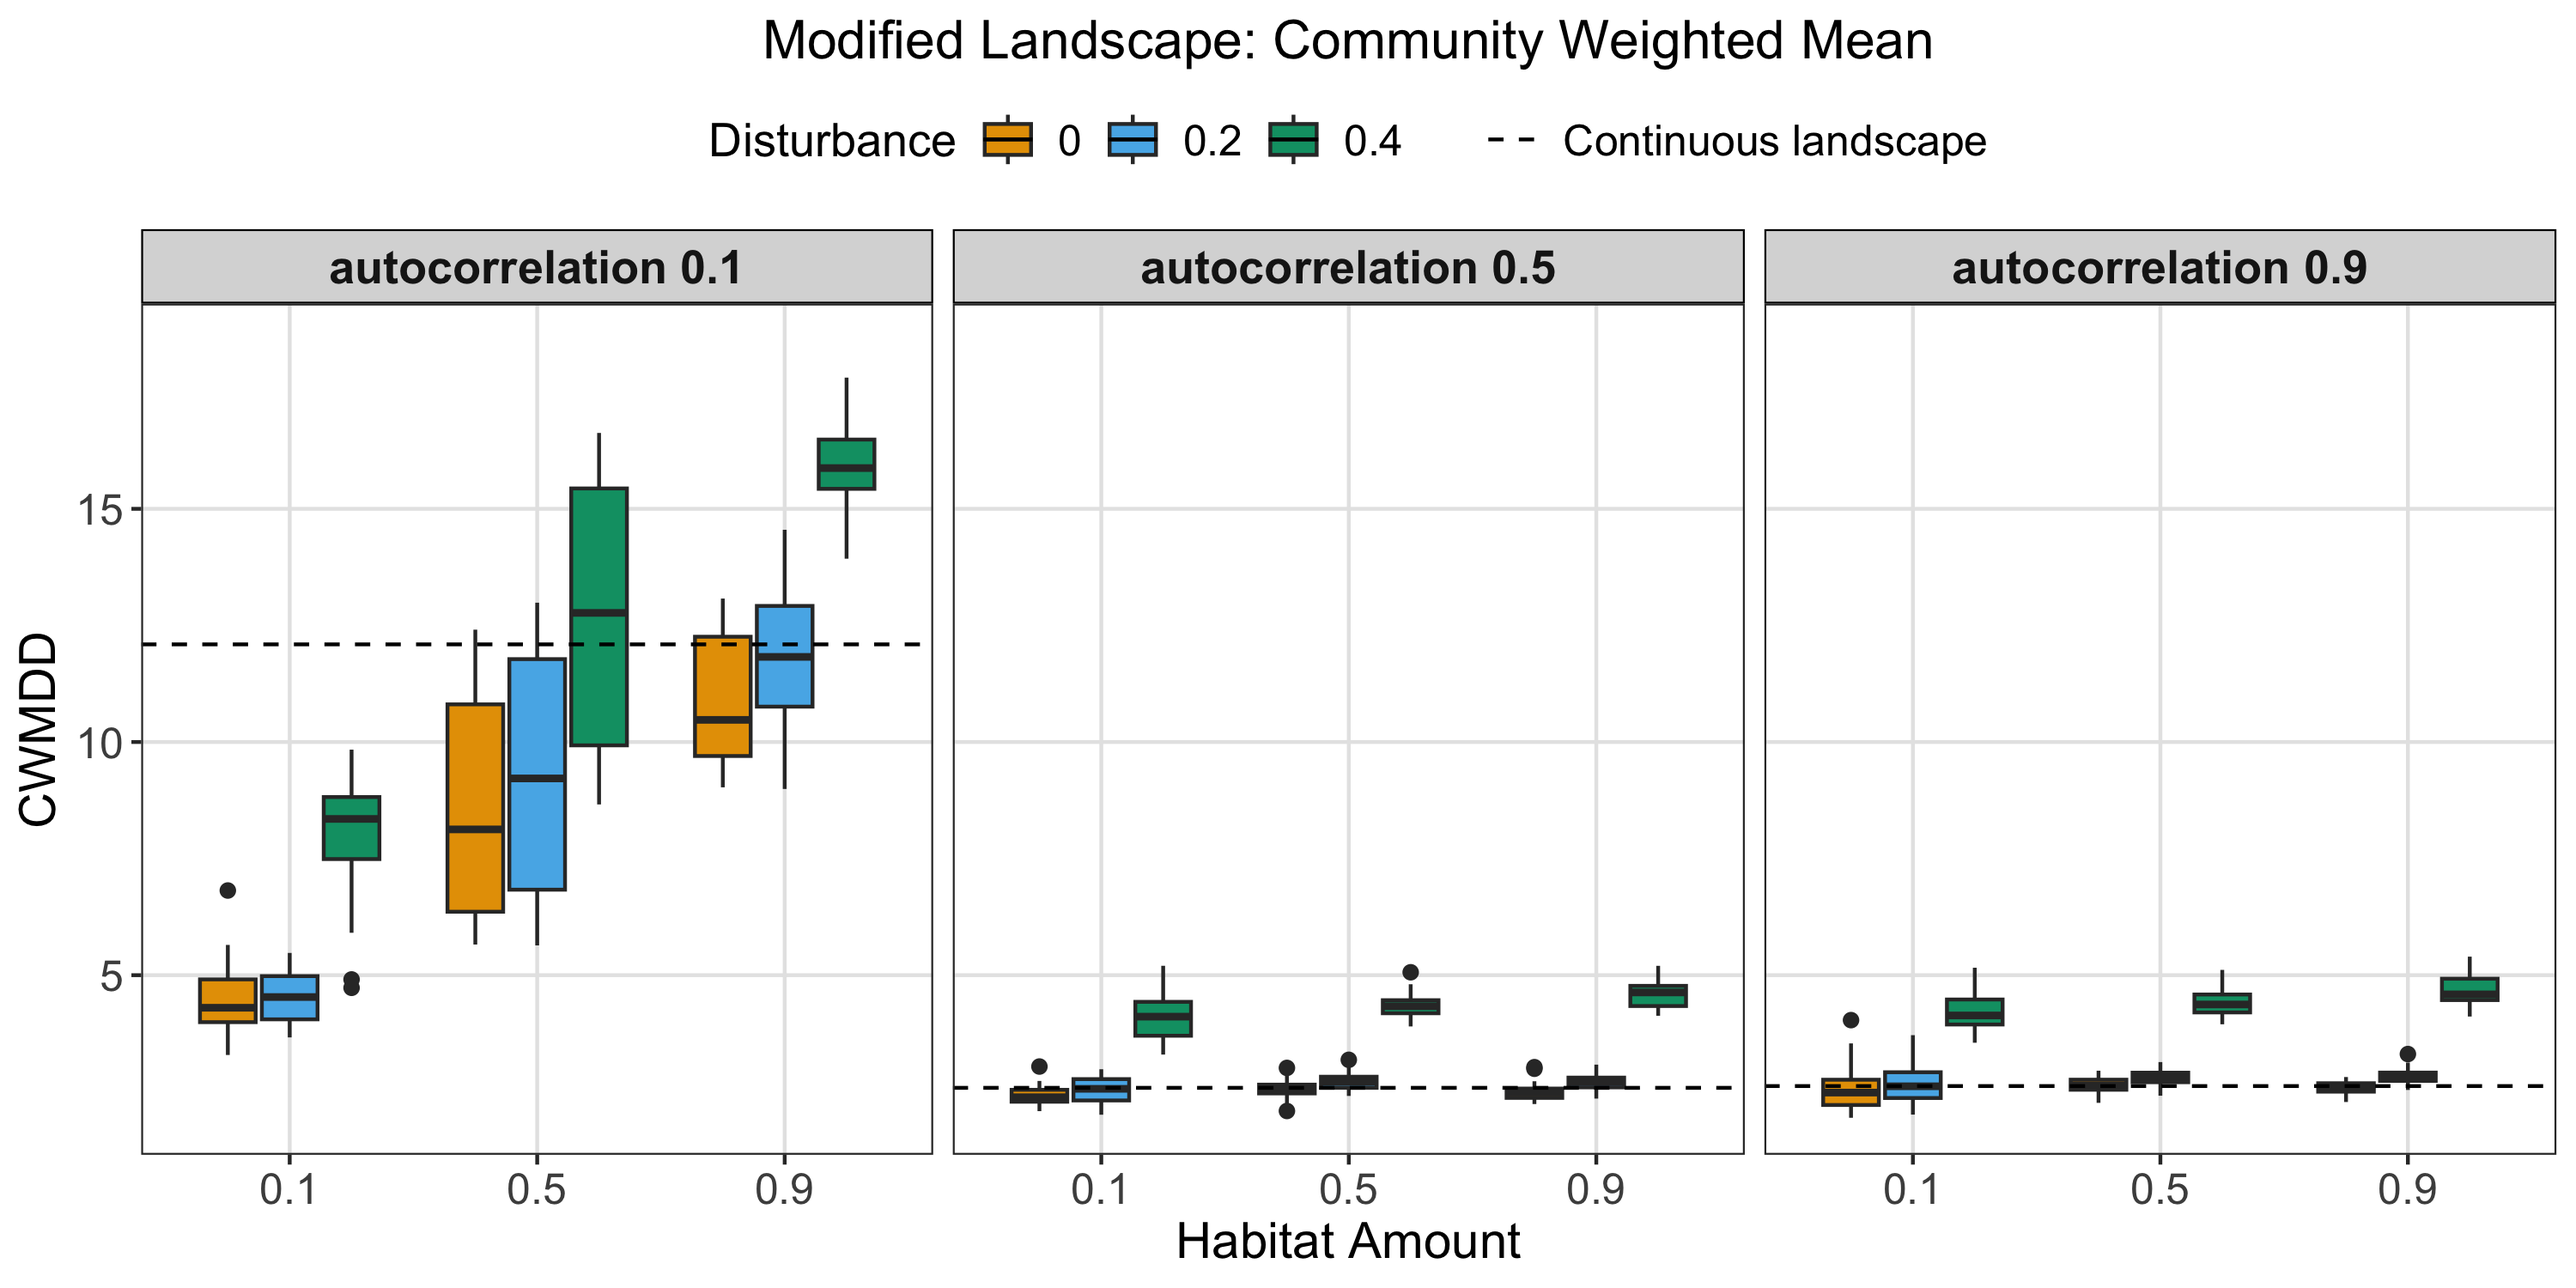
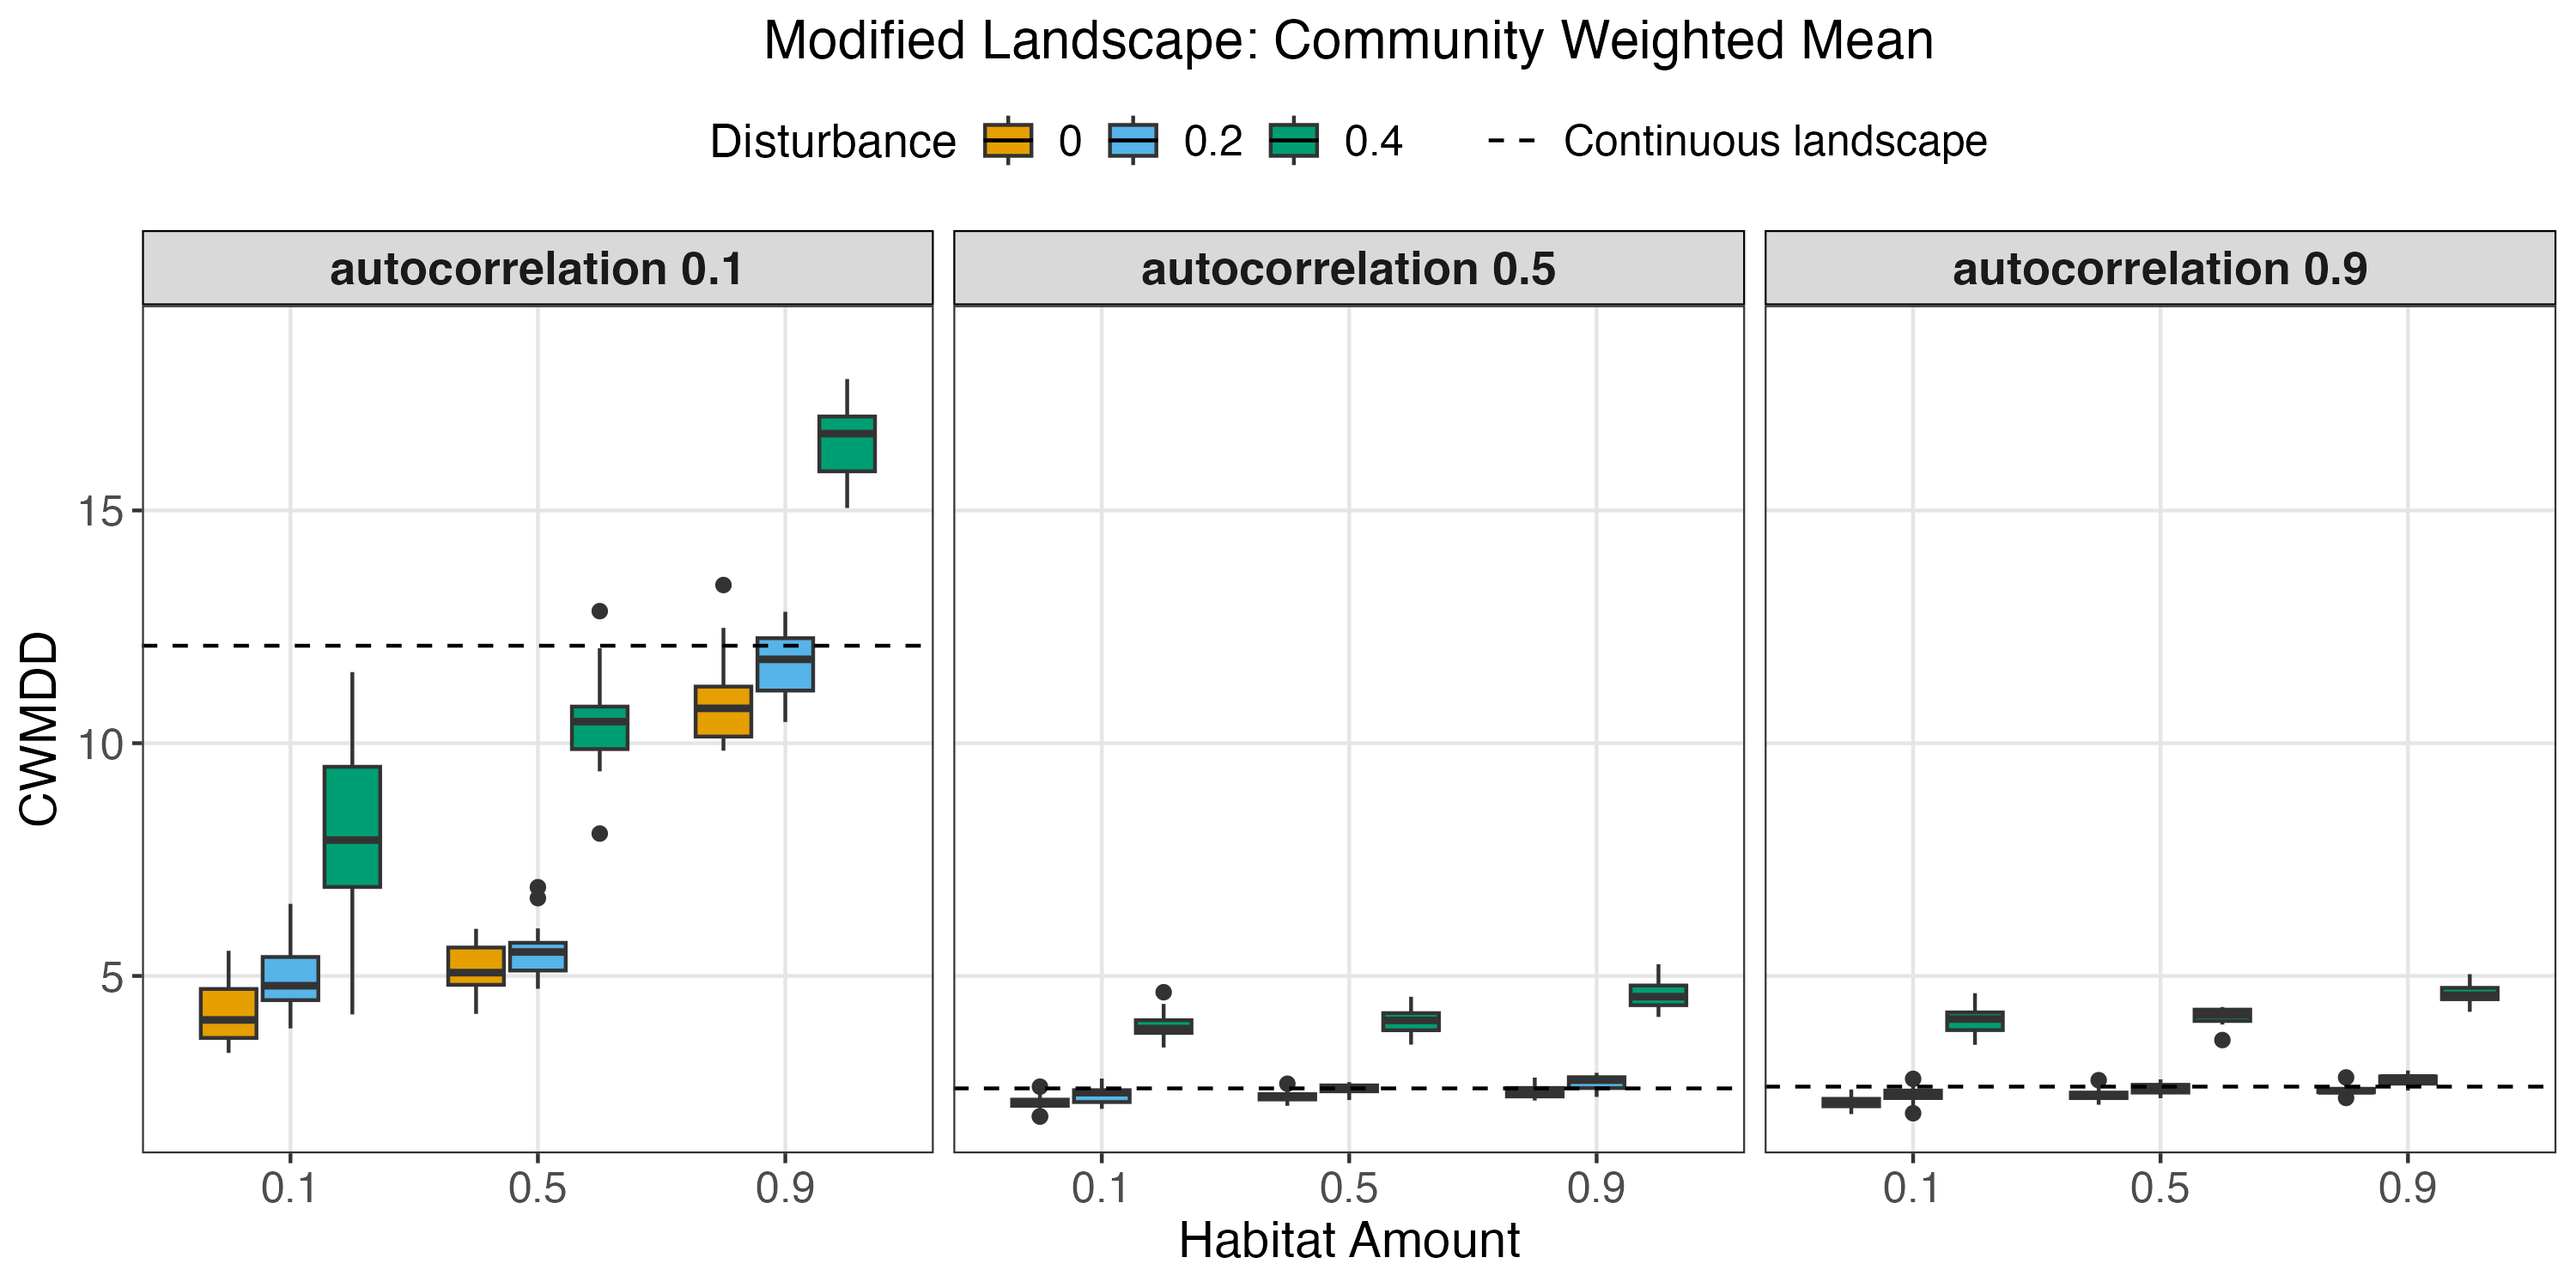
Update Figures 5-7 and figure scripts for the revised manuscript

diff --git a/data-raw/README.md b/data-raw/README.md
@@ -27,15 +27,17 @@ Figures S7--S10.
 | Fig. 2m--o | vary habitat amount (modified) | `303` | `203` |
 | Fig. 3 | autocorrelation x disturbance spread rate (continuous) | `310` | `210` |
 | Fig. 4 | fragmentation x habitat amount (modified) | `320` | `220` |
-| Figs. 5--7 | habitat x disturbance x autocorrelation (modified) | `231` | `230` |
+| Figs. 5--7 | habitat x disturbance x autocorrelation (modified, fragmentation 0.7) | `370` | -- |
 | Fig. S1, S3 | habitat x autocorrelation x disturbance (modified, fragmentation 0.7) | `370` | -- |
 | Fig. S2, S4 | fragmentation x autocorrelation x disturbance (modified, habitat 0.2) | `371` | -- |
 | Fig. S5 | one-at-a-time sensitivity: birth rate, death rate, niche breadth (modified) | `350` | `250` |
 | Fig. S6 | disturbance spread rate x disturbance frequency (continuous) | `360` | `260` |
-| Figs. S7--S10 | log-normal vs exponential kernel comparison | (built from the runs above) | |
+| Figs. S7--S10 | log-normal vs exponential kernel comparison (S10 uses the 4-variable Figs 5--7 runs, fragmentation 0.1/0.9 pooled) | `231` | `230` |
 
 Figures S1--S4 are slices of the two three-variable runs `370`/`371`
 (S1 = habitat x disturbance at autocorrelation 0.5; S3 = habitat x autocorrelation
-at disturbance 0; S2 and S4 are the analogous fragmentation slices). The
-kernel-comparison figures (S7--S10) are assembled directly from the cached
-summaries of both kernels' runs and need no separate runs of their own.
+at disturbance 0; S2 and S4 are the analogous fragmentation slices); run `370`
+also provides the main-text Figures 5--7. The kernel-comparison figures S7--S9
+are assembled from the cached summaries of the runs above; Figure S10
+additionally uses the four-variable runs `231`/`230` (fragmentation 0.1 and 0.9
+pooled).
